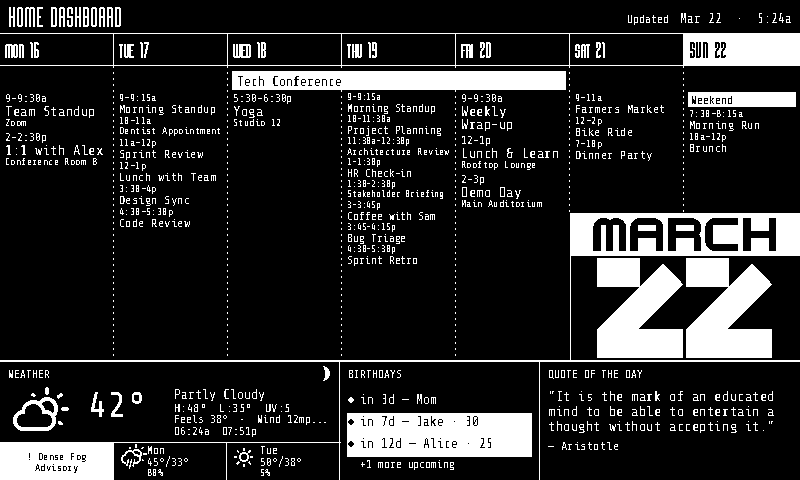
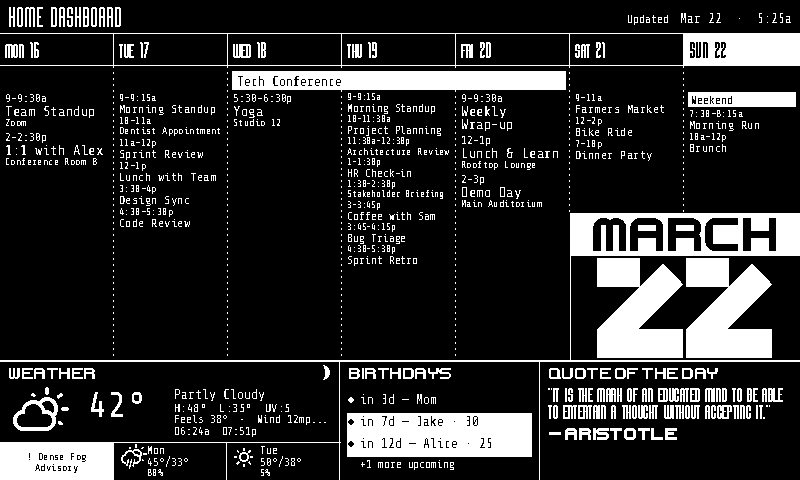
Terminal theme: UESC Display for section labels, Maratype/UESC for quote
- Add font_section_label, font_quote, font_quote_author fields to
  ThemeStyle (all fall back to existing behaviour when None)
- label_font() checks font_section_label before weight-based dispatch
- info_panel.py uses font_quote for body text and font_quote_author
  for attribution
- Terminal theme: section labels → UESC Display, quote text → Maratype,
  author → UESC Display
- Regenerate output/latest.png preview

https://claude.ai/code/session_01CjdKxNGhZWPHMn7pzM6TWP

Changed region(s): [[0.6875, 0.75, 1.0, 0.9375], [0.4375, 0.75, 0.5625, 0.8125], [0.0, 0.75, 0.125, 0.8125]]

diff --git a/src/render/theme.py b/src/render/theme.py
@@ -105,6 +105,9 @@ class ThemeStyle:
     font_date_number: FontCallable | None = None  # large today date numeral
     font_month_title: FontCallable | None = None  # large month name band
     font_title: FontCallable | None = None  # dashboard title + day column headers
+    font_section_label: FontCallable | None = None  # WEATHER / BIRTHDAYS / QUOTE OF THE DAY
+    font_quote: FontCallable | None = None   # quote body text
+    font_quote_author: FontCallable | None = None  # quote attribution line
 
     # Event spacing multiplier (applied in _fonts_for_tier)
     spacing_scale: float = 1.0
@@ -139,6 +142,8 @@ class ThemeStyle:
 
     def label_font(self) -> "ImageFont.FreeTypeFont":
         """Return the appropriate font for section labels based on label_font_weight."""
+        if self.font_section_label is not None:
+            return self.font_section_label(self.label_font_size)  # type: ignore[misc]
         fn = {
             "bold": self.font_bold,
             "semibold": self.font_semibold,

diff --git a/src/render/components/info_panel.py b/src/render/components/info_panel.py
@@ -121,9 +121,10 @@ def draw_info(
     y = y0 + 28
     max_width = w - pad * 2
 
-    quote_font = style.font_regular(14)
+    _quote_fn = style.font_quote if style.font_quote is not None else style.font_regular
+    quote_font = _quote_fn(14)
     if _count_lines(text, quote_font, max_width) > 3:
-        quote_font = style.font_regular(12)
+        quote_font = _quote_fn(12)
         max_lines = 4
     else:
         max_lines = 3
@@ -134,7 +135,8 @@ def draw_info(
     )
 
     # Attribution
-    author_font = style.font_regular(12)
+    _author_fn = style.font_quote_author if style.font_quote_author is not None else style.font_regular
+    author_font = _author_fn(12)
     attr_y = y + used_h + 6
     if attr_y + 16 < y0 + h:
         draw.text((x0 + pad, attr_y), f'— {quote["author"]}', font=author_font, fill=style.fg)

diff --git a/src/render/themes/terminal.py b/src/render/themes/terminal.py
@@ -43,5 +43,8 @@ def terminal_theme() -> Theme:
             font_date_number=synthetic_genesis,
             font_month_title=uesc_display,
             font_title=maratype,
+            font_section_label=uesc_display,
+            font_quote=maratype,
+            font_quote_author=uesc_display,
         ),
     )
